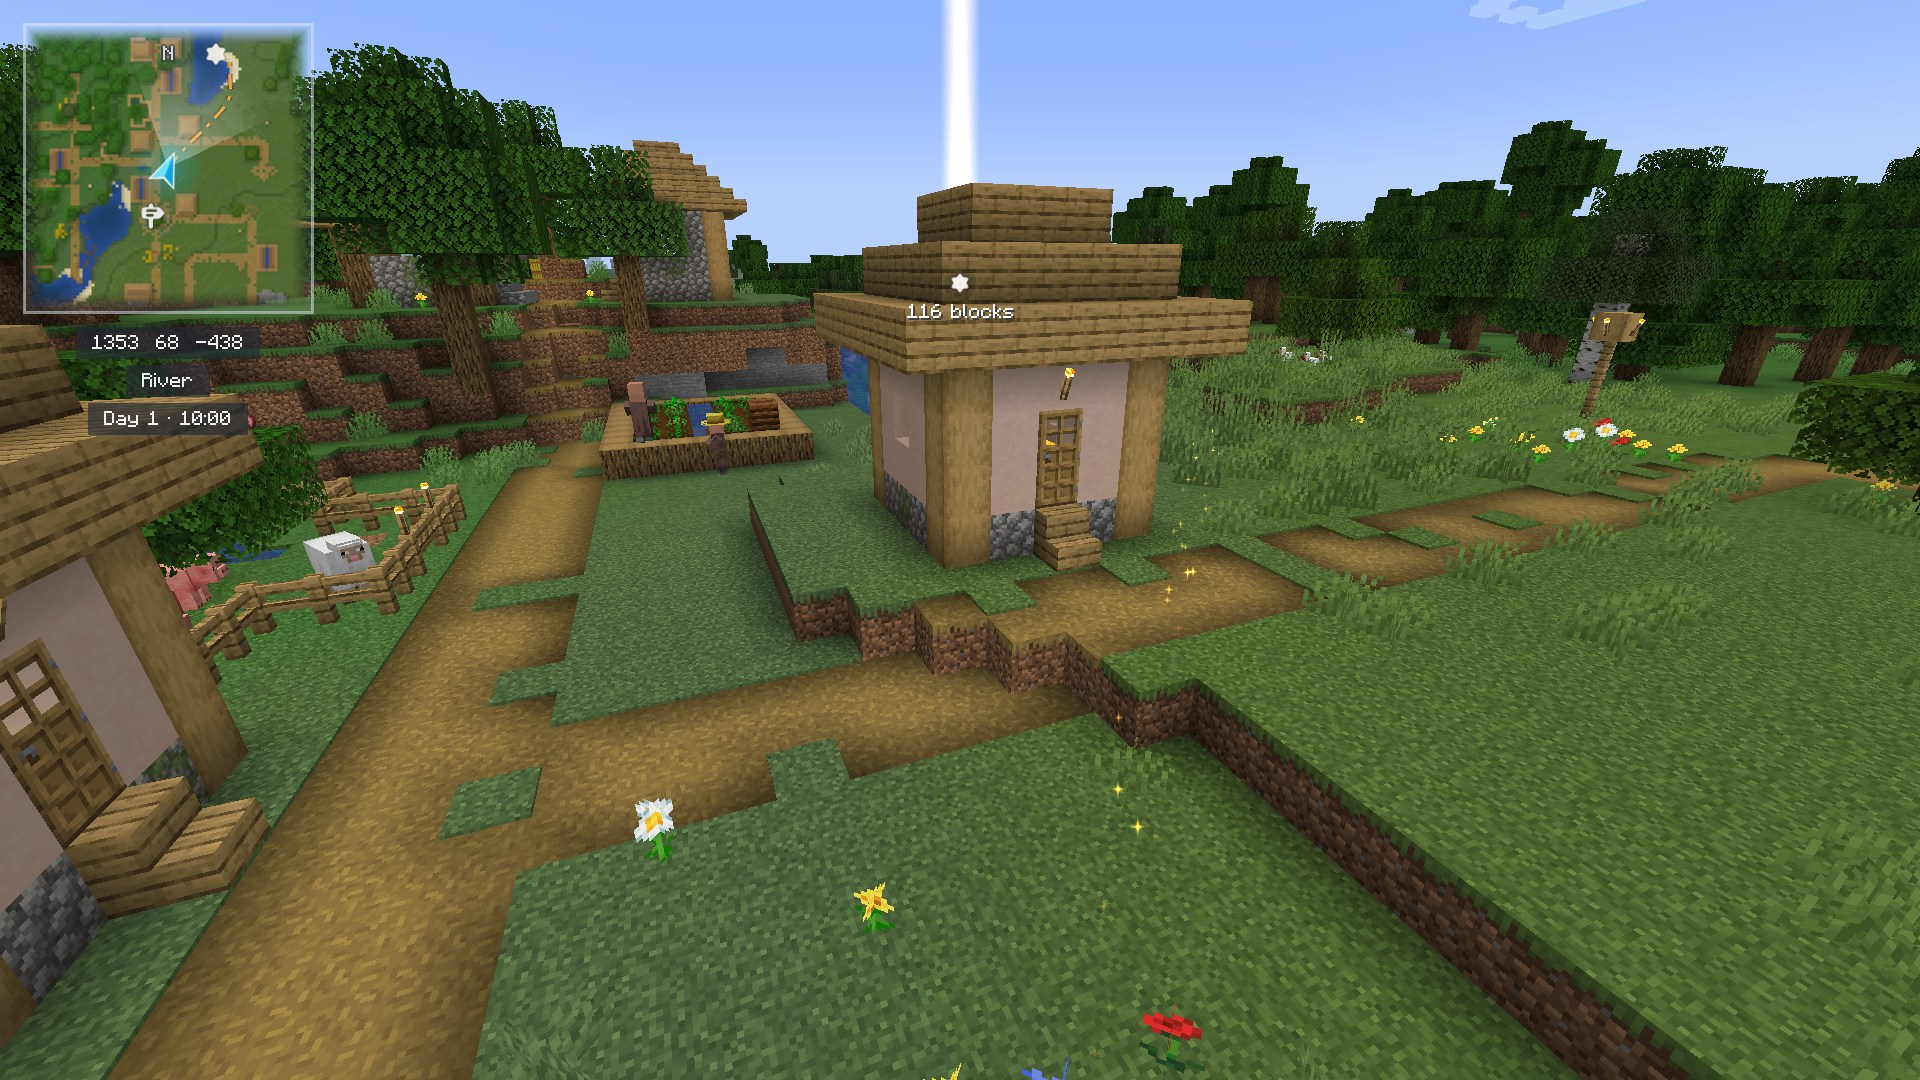
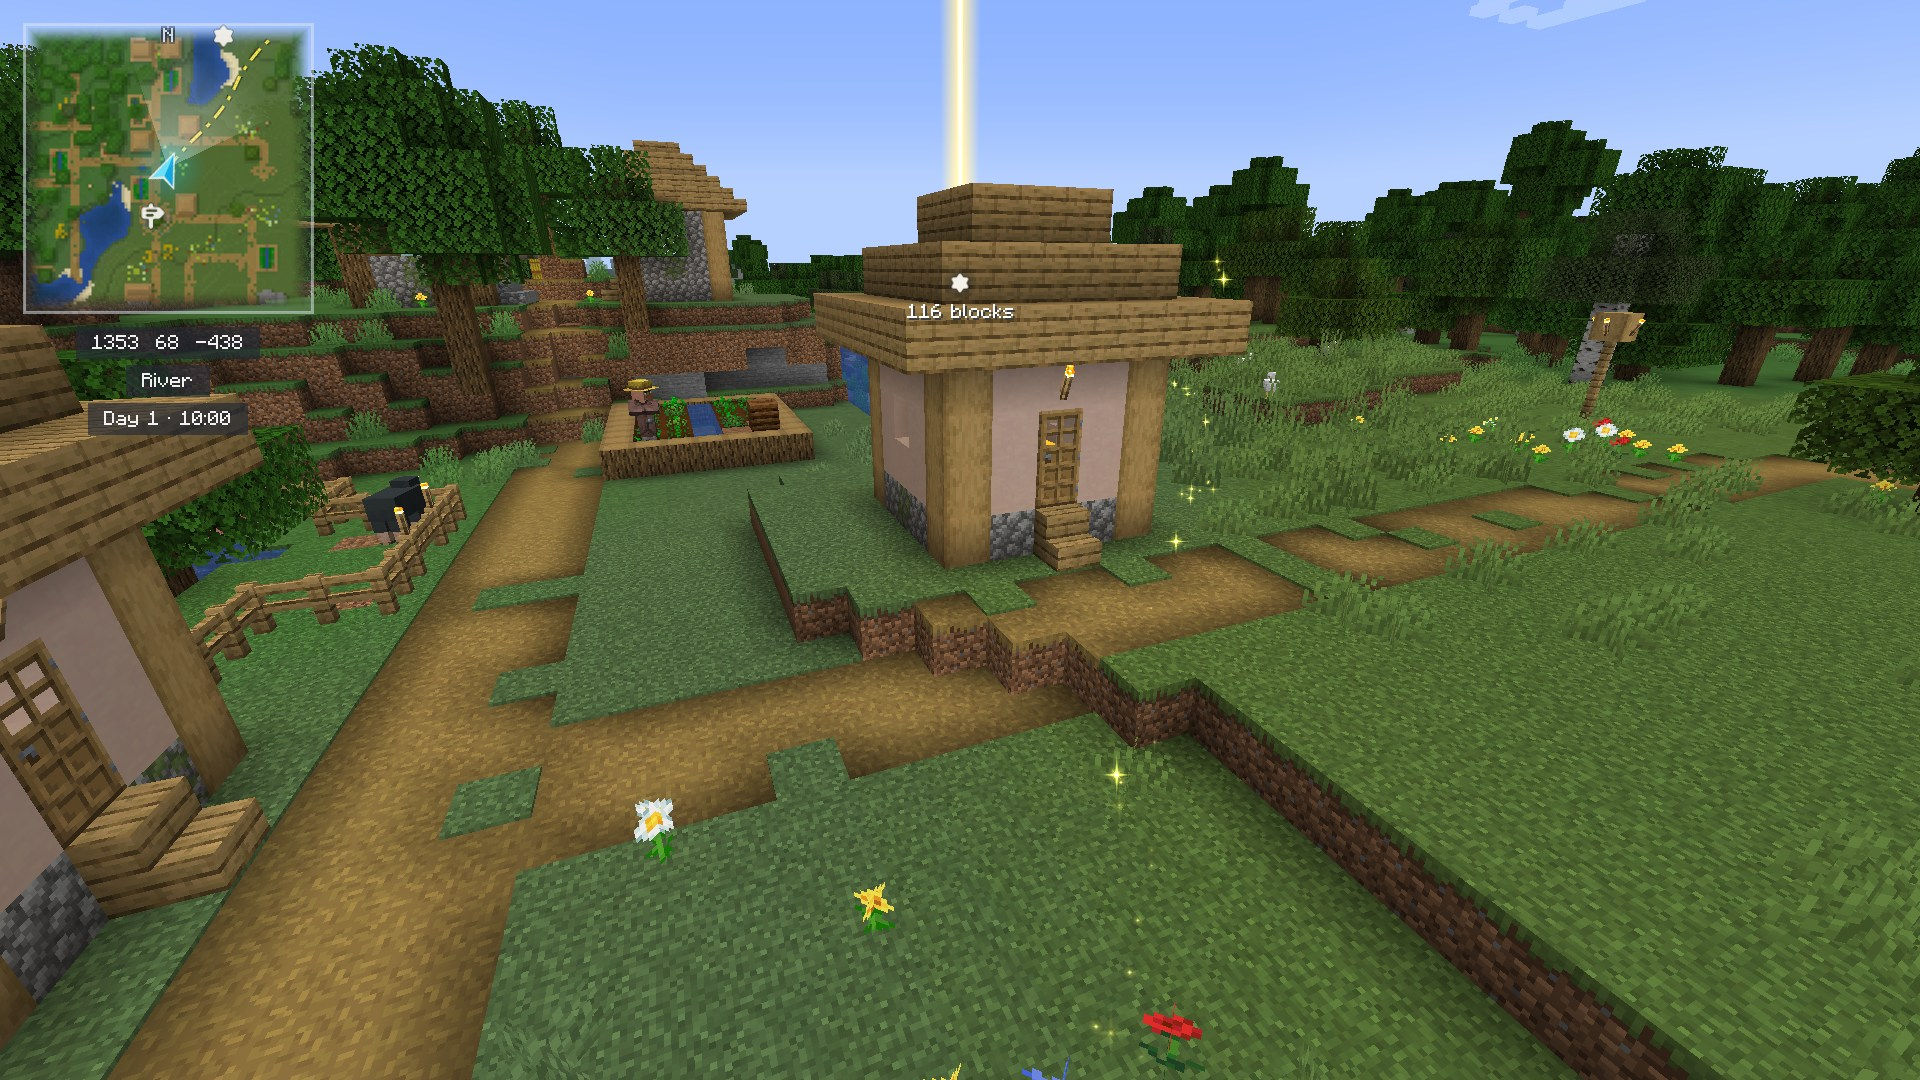
0.4.0: Route setting, sea-coloured path, golden marker, new path stars, VulkanMod
- Route setting: on land round deep water, or across water by boat; the path over deep water in the colour of the sea
- The path line drawn in over 3 seconds; beam, sparkles and path lines golden for every kind of pin
- Sparkles like Genshin Impact's path stars, shown within 64 blocks
- Fabulous: path stars and beam right over water; VulkanMod: list edges, menu blur and map seams fixed
- README: new screenshots, VulkanMod Reforged in the compatibility table

diff --git a/README.md b/README.md
@@ -129,7 +129,7 @@ Place pins, search for them and for biomes, track them, follow the path and find
 <h2 id="installation">📥 Installation</h2>
 
 1. Install [NeoForge](https://neoforged.net) 21.1 for Minecraft 1.21.1.
-2. Download `teyvatcartographia-v0.3.0+mc1.21.1-neoforge.jar` from
+2. Download `teyvatcartographia-v0.4.0+mc1.21.1-neoforge.jar` from
    [Modrinth](https://modrinth.com/mod/teyvat-cartographia), [CurseForge](https://www.curseforge.com/minecraft/mc-mods/teyvat-cartographia) or the
    [latest GitHub release](https://github.com/Tapacywka/teyvat-cartographia/releases/latest) and put it into your
    `mods/` folder.
@@ -292,6 +292,7 @@ world map, so most mods work without anything special. A few get more: with one 
 | [Mielon's The Sift](https://modrinth.com/mod/mielons-the-sift) | A **pearly haze** in the colours of its ichor as the Fog of War; its **rainbow ichor** and **ichor snow** shimmer on the map in their own colours (each can be switched off); its cyan willows keep their colour. |
 | [Biomes O' Plenty](https://github.com/Glitchfiend/BiomesOPlenty), [Regions Unexplored](https://github.com/Apollounknowndev/RegionsUnexplored) | Their biomes, leaves, grass and plants in their own colours (compared side by side with Xaero's Minimap in 16 places); their plants in the Plants list. |
 | [Vanilla Backport](https://github.com/ItsBlackGear/VanillaBackport), [Tiny Takeover Backport](https://github.com/evanbones/Tiny-Takeover-Backport) | The pale garden, leaf litter, bushes and the other new blocks in the colours the game gives them. |
+| [VulkanMod Reforged](https://github.com/TrulyRin/VulkanMod-Reforged) | Works with its Vulkan renderer: the map, the minimap, the path with its sparkles and the beam look as with OpenGL, the lists dissolve at their edges and the blur under the menus works. |
 
 The Nether and The End have fogs of their own too (each can be switched off in Compatibility > Minecraft); a resource pack theme can add a fog for any other dimension (see
 [Themes](#themes)). Players with other minimaps keep them: this mod changes nothing in the world and needs nothing

diff --git a/CHANGELOG.md b/CHANGELOG.md
@@ -8,6 +8,8 @@ the build metadata after the version: `0.2.0+mc1.21.1-neoforge` is version 0.2.0
 
 ## [Unreleased]
 
+## [0.4.0] - 2026-10-26
+
 ### Added
 - A Route setting (Pins > Path to the target): On land, the path walks round deep water; Across water, it goes by
   boat across lakes and seas of any width. Sitting in a boat, the path goes by water either way.
@@ -246,7 +248,8 @@ The first public release, for Minecraft 1.21.1 on NeoForge 21.1. Client only.
 - Cached HUD layers, chunk work on worker threads and path searches in short slices: the mod is meant to cost at most
   2 to 3% FPS.
 
-[Unreleased]: https://github.com/Tapacywka/teyvat-cartographia/compare/v0.3.0...HEAD
+[Unreleased]: https://github.com/Tapacywka/teyvat-cartographia/compare/v0.4.0...HEAD
+[0.4.0]: https://github.com/Tapacywka/teyvat-cartographia/compare/v0.3.0...v0.4.0
 [0.3.0]: https://github.com/Tapacywka/teyvat-cartographia/compare/v0.2.0...v0.3.0
 [0.2.0]: https://github.com/Tapacywka/teyvat-cartographia/compare/v0.1.2...v0.2.0
 [0.1.2]: https://github.com/Tapacywka/teyvat-cartographia/compare/v0.1.1...v0.1.2
